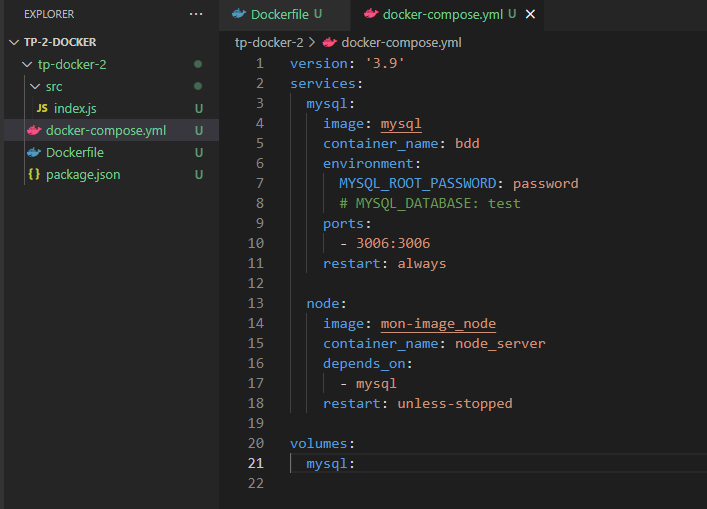
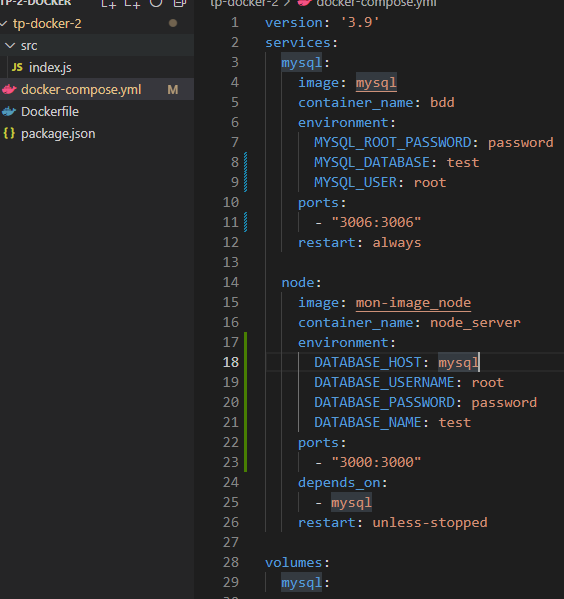
/

diff --git a/docker_tp2.md b/docker_tp2.md
@@ -1,0 +1,76 @@
+# TP 1 - Docker
+
+## 5. Exécuter un serveur web dans un conteneur docker
+
+#### a. Récupérer l’image sur le Docker Hub :
+```docker pull nginx``` 
+#### b. Vérifier que cette image est présente en local :
+![docker images]( /capture_docker_tp1/5-docker_images.PNG )
+
+#### c. Créer un fichier index.html simple :
+je crée un répertoire /tp_docker dans lequel je crée un fichier index.html  
+![création_index]( /capture_docker_tp1/5-création_index.html.PNG )  
+![index.html]( /capture_docker_tp1/5-création_index.html2.PNG )
+
+#### d. Démarrer un conteneur et servir la page html créée précédemment à l’aide d’un volume (option -v de docker run) :
+J'exécute la commande ```docker run -d -p 8080:80 -v /home/admin/tp_docker/:/usr/share/nginx/html/ nginx```  
+et j'observe le résultat  
+![resultat navigateur]( /capture_docker_tp1/5-run-v.PNG )  
+![resultat navigateur]( /capture_docker_tp1/5-docker-v.PNG )
+
+#### e. Supprimer le conteneur précédent et arriver au même résultat que précédemment à l’aide de la commande docker cp :
+je supprime le conteneur précédent  
+![resultat navigateur]( /capture_docker_tp1/5-rm.PNG )  
+puis je lance la commande ```docker run -d -p 8080:80 nginx```  
+et ensuite je fais ```docker cp /home/admin/tp_docker/index.html 7bde8524ce9b1c50c73c8e157a5304c1a4b90b477e125:/usr/s
+hare/nginx/html/index.html```  
+![docker cp]( /capture_docker_tp1/5-docker_cp.PNG )  
+j'observe ensuite que j'ai toujours le meme résultat depuis mon navigateur
+
+## 6. Builder une image
+#### a. A l’aide d’un Dockerfile, créer une image (commande docker build) :
+premièrement je crée le Dockerfile  
+![dockerfile]( /capture_docker_tp1/6.1.PNG )   
+ensuite je build mon image  
+![docker build]( /capture_docker_tp1/6.2.PNG ) 
+
+### b. Exécuter cette nouvelle image de manière à servir la page html (commande docker run) :
+![docker run mon_image]( /capture_docker_tp1/6.3.PNG )
+
+### c. Quelles différences observez-vous entre les procédures 5. et 6. ? Avantages et inconvénients de l’une et de l’autre méthode ? :
+Les modifications de mon fichier html, par exemple, ne sont pas prises en compte lorsque j'actualise mon navigateur
+
+## 7. Utiliser une base de données dans un conteneur docker
+#### a. Récupérer les images mysql et phpmyadmin/phpmyadmin depuis le Docker Hub, b. Exécuter deux conteneurs à partir des images et ajouter une table ainsi que quelques enregistrements dans la base de données à l’aide de phpmyadmin :
+Premièrement je télécharge l'image officiel de mysql
+![image mysql]( /capture_docker_tp1/7.1.PNG )    
+Ensuite je run le conteneur en renseignant le mdp du l'utilisateur root  
+![run mysql]( /capture_docker_tp1/7.2.PNG )  
+et je vérfie que tout ce passe bien en rentrant dans mon conteneur pour accéder à mysql  
+![exec mysql]( /capture_docker_tp1/7.3.PNG )  
+Puis je fait la même chose avec l'image phpmyadmin en attribuant notamment --link avec mon conteneur mysql créer précédemment  
+![run mysql]( /capture_docker_tp1/7.4.PNG )  
+Ensuite je peux créer mes bdd et mes tables  
+![run mysql]( /capture_docker_tp1/7.5.PNG )  
+Pour finir je vérifie une nouvelle fois, en rentrant dans mon conteneur, que ma nouvelle bdd est bien présente.   
+![run mysql]( /capture_docker_tp1/7.6.PNG ) 
+
+## 8. Faire la même chose que précédemment en utilisant un fichier docker-compose.yml
+
+![docker-compose.yml]( /capture_docker_tp1/8.1.PNG )
+![docker-compose up]( /capture_docker_tp1/8.2.PNG )
+
+### a. Qu’apporte le fichier docker-compose par rapport aux commandes docker run ? Pourquoi est-il intéressant ?
+L'avantage du fichier docker-compose permet de gérer plus facilement un projet contenant plusieurs applications/conteneurs. Il permet notamment de lancer plusieurs applications en une seul commande et de faciliter la gestion du mapping.
+### b. Quel moyen permet de configurer (premier utilisateur, première base de données, mot de passe root, …) facilement le conteneur mysql au lancement ?
+Pour définir c'est variables au lancement on peut utiliser les variables environment dans les fichier docker-compose.yml
+
+
+
+
+
+
+
+
+
+
